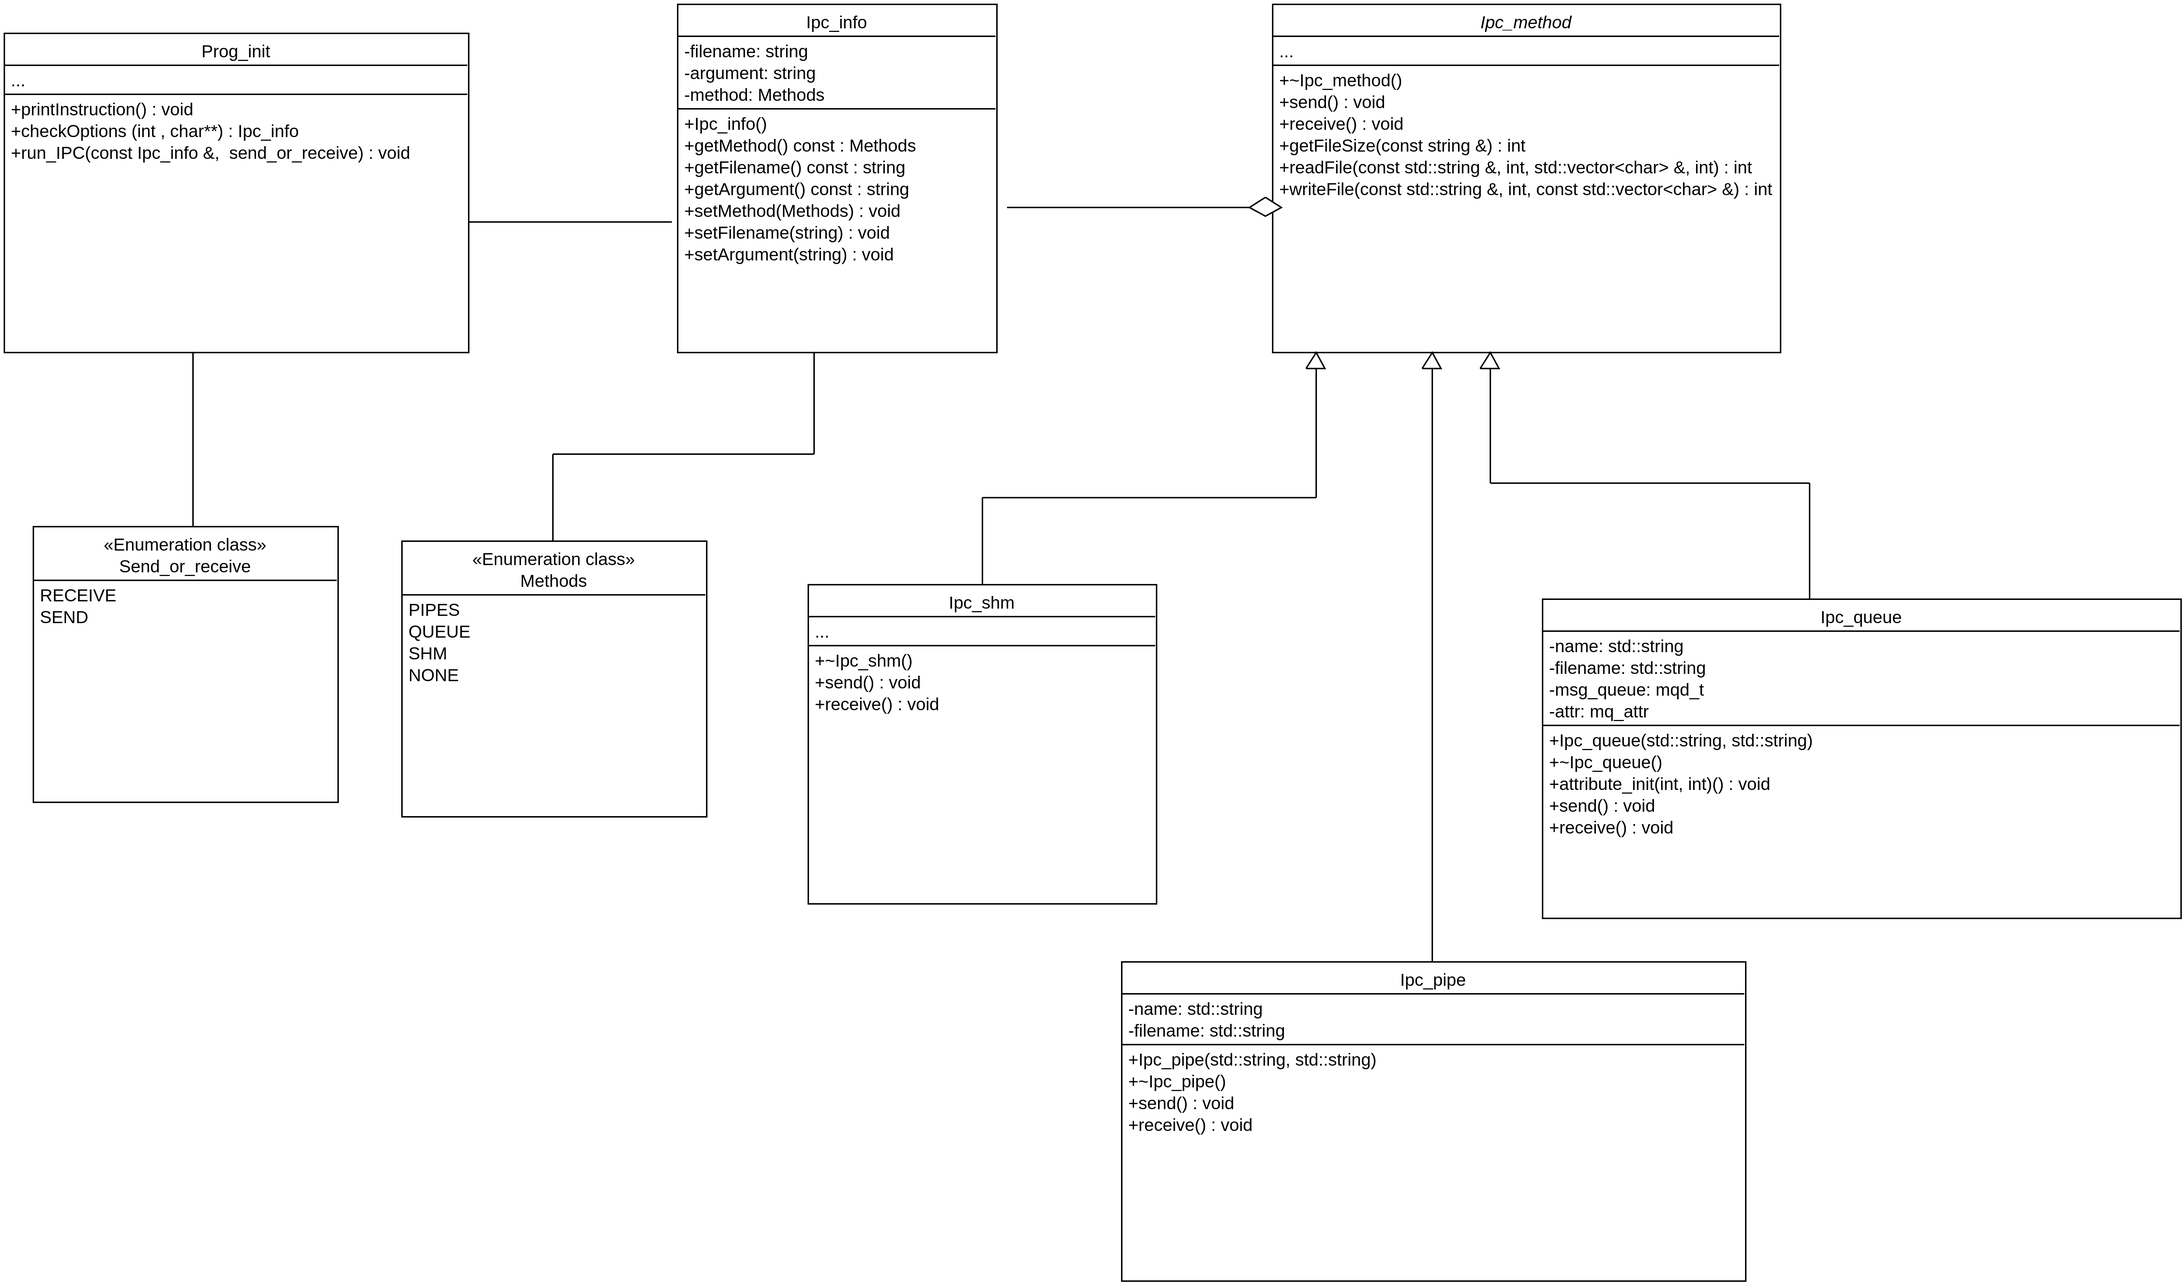
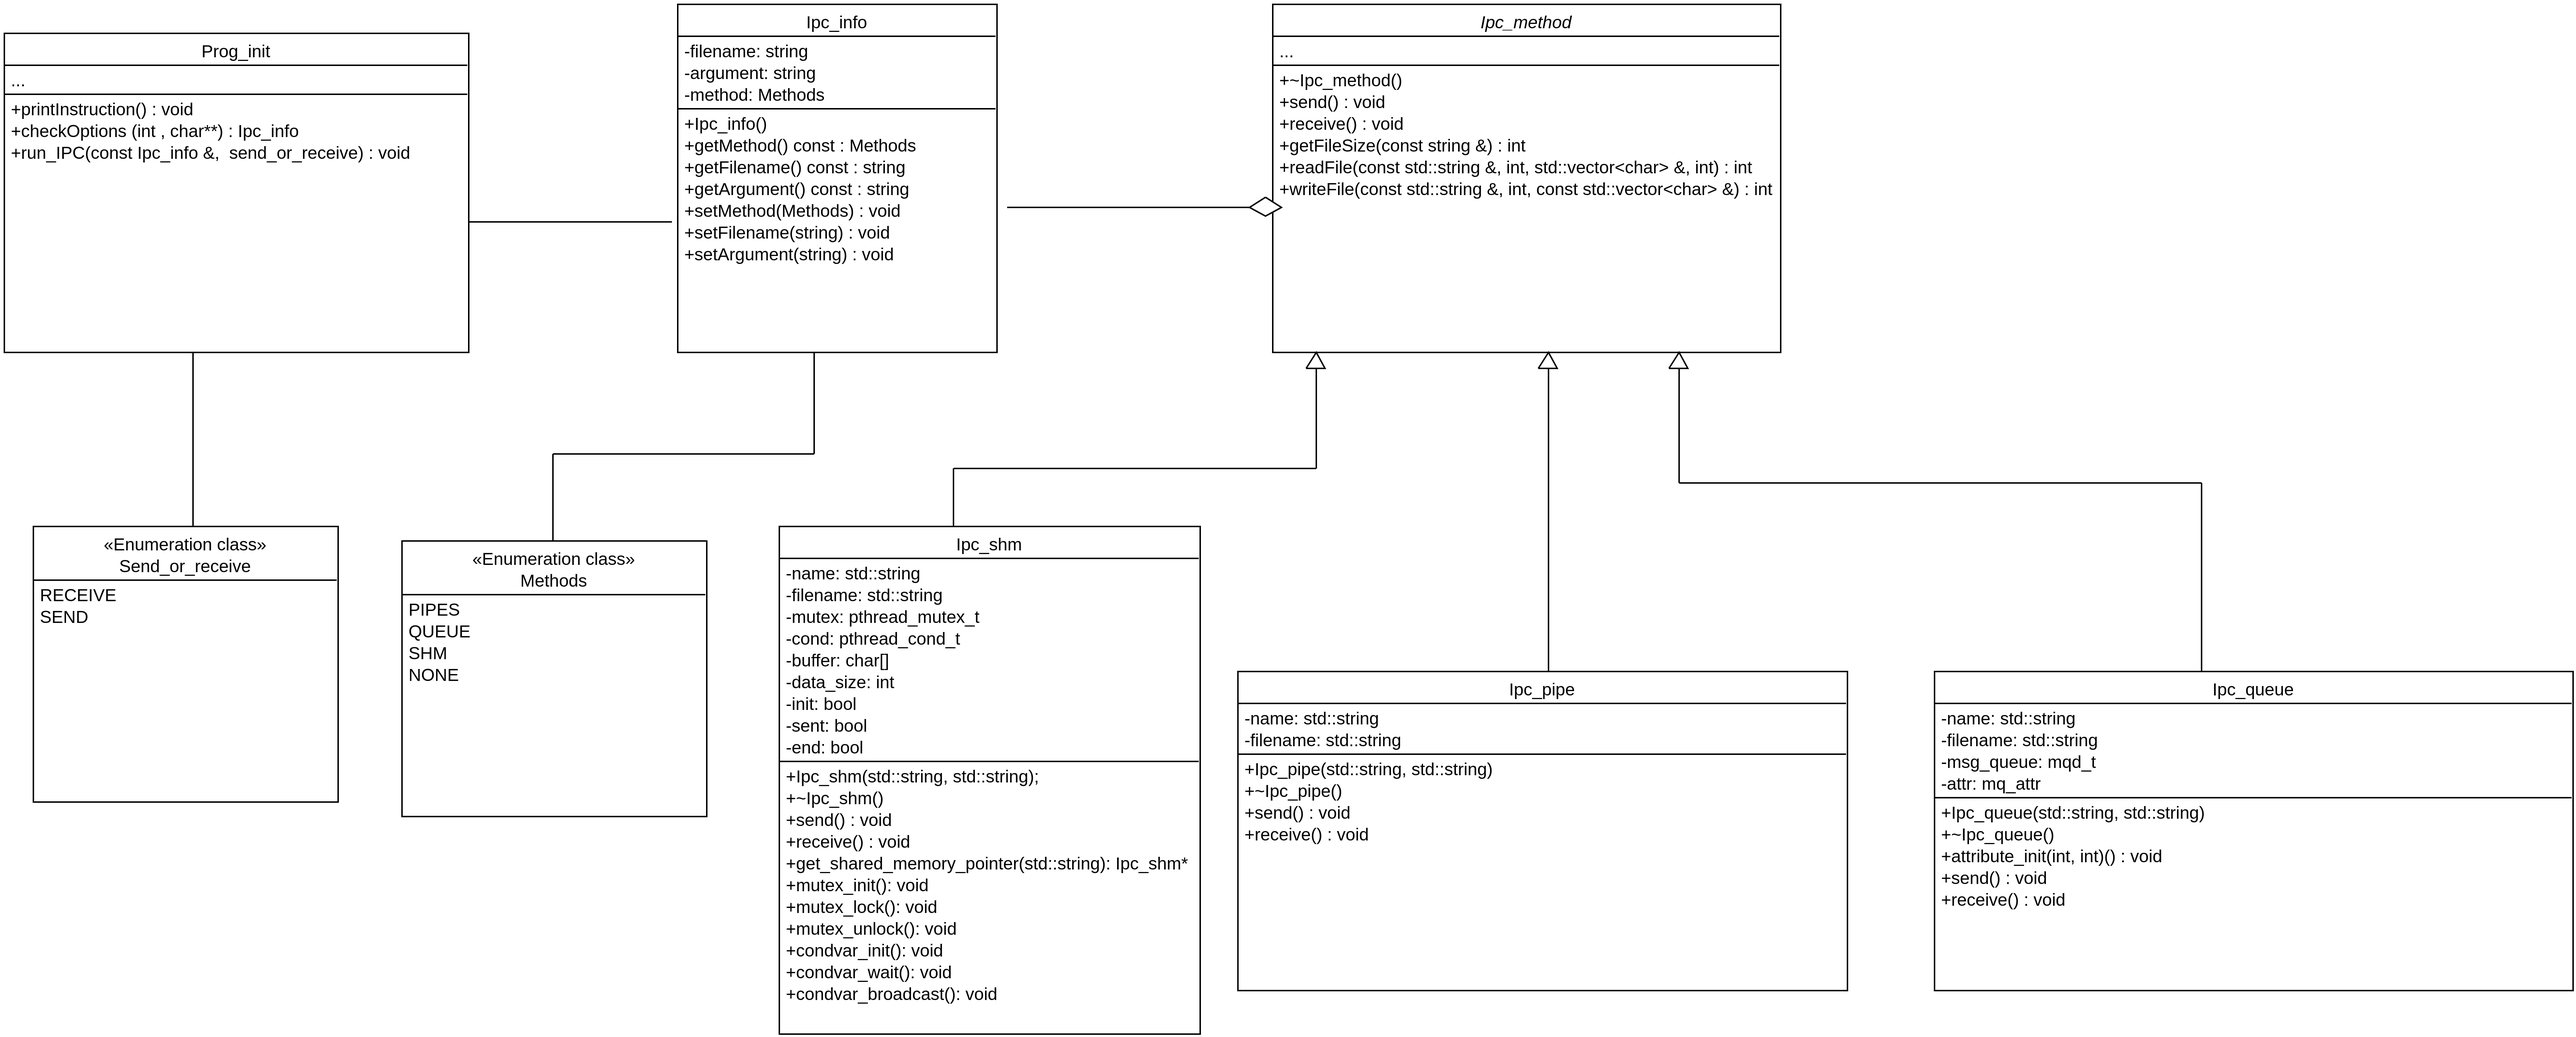
Added shm implementation

diff --git a/Cpp_hands_on_programming/lib/shm/Ipc_shm.cc b/Cpp_hands_on_programming/lib/shm/Ipc_shm.cc
@@ -7,191 +7,187 @@
 
 void Ipc_shm::send() {
     std::cout << "Starting shmSend.." << std::endl;
-    // check_leadingSlash();
 
-    // int fd, total(0), size, bytes_read(0);
-	// std::vector<char> v(DATA_SIZE);
+    int fd, total(0), size, bytes_read(0);
+	std::vector<char> v(DATA_SIZE);
     
- 	// if ((size = getFileSize(filename)) == -1) {
-	// 	throw(std::runtime_error("Ipc_method:: getFileSize"));
-	// }
+ 	if ((size = getFileSize(filename)) == -1) {
+		throw(std::runtime_error("Ipc_method:: getFileSize"));
+	}
 
-    // fd = shm_open(name.c_str(), O_RDWR | O_CREAT, 0666);
-	// if (fd == -1) { 
-	// 	throw(std::runtime_error("Ipc_shm::send: shm_open"));
-	// }
-	// // allocate the size of the shared memory object
-	// if (ftruncate(fd, sizeof(Ipc_shm)) == -1) {
-	// 	throw(std::runtime_error("Ipc_shm::send: ftruncate"));	
-	// }
-	// // get a pointer to shared memory region
-	// auto shm_ptr = (Ipc_shm *)mmap(NULL, sizeof(Ipc_shm), PROT_WRITE, MAP_SHARED, fd, 0);
-	// if (shm_ptr == MAP_FAILED) {
-	// 	throw(std::runtime_error("Ipc_shm::send: mmap"));
-	// }
-    // //close fd
-	// close(fd);
-	
-	// if ((bytes_read = readFile(filename, total, v, DATA_SIZE) == -1)) {
-	// 	throw(std::runtime_error("Ipc_shm::send: readFile"));
-	// }
+    fd = shm_open(name.c_str(), O_RDWR | O_CREAT, 0666);
+	if (fd == -1) { 
+		throw(std::runtime_error("Ipc_shm::send: shm_open"));
+	}
+	// allocate the size of the shared memory object
+	if (ftruncate(fd, sizeof(Ipc_shm)) == -1) {
+		throw(std::runtime_error("Ipc_shm::send: ftruncate"));	
+	}
+	// get a pointer to shared memory region
+	auto shm_ptr = (Ipc_shm *)mmap(NULL, sizeof(Ipc_shm), PROT_WRITE, MAP_SHARED, fd, 0);
+	if (shm_ptr == MAP_FAILED) {
+		throw(std::runtime_error("Ipc_shm::send: mmap"));
+	}
+    //close fd
+	close(fd);
 
-	// shm_ptr->mutex_init();
-	// shm_ptr->condvar_init();
-	// // initialized shared memory object member values
-	// shm_ptr->sent = false;
-	// shm_ptr->end = false;
-	// shm_ptr->init = true;
+	shm_ptr->mutex_init();
+	shm_ptr->condvar_init();
+	// initialized shared memory object member values
+	shm_ptr->sent = false;
+	shm_ptr->end = false;
+	shm_ptr->init = true;
 
-    // while (total < size) {
-    //     // shm_ptr->m.lock();
-	// 	shm_ptr->mutex_lock();
-	// 	// check sent status and blocked if data still has not been retrieved 
-	// 	while (shm_ptr->sent) {
-	// 		shm_ptr->condvar_wait();
-	// 	}
-	// 	//read the file into shared buffer;
-	// 	if ((bytes_read = readFile(filename, total, v, DATA_SIZE)) == -1) {
-	// 		throw(std::runtime_error("Ipc_shm::send: readFile"));
-	// 	}
-	// 	copy(v.begin(), v.end(), shm_ptr->buffer);
-	// 	total += bytes_read;
-	// 	if (total == size) {
-	// 		shm_ptr->end = true;
-	// 	}
-	// 	// update shared memory object
-	// 	shm_ptr->sent = true;
-	// 	shm_ptr->data_size = bytes_read; 
+    while (total < size) {
+        // shm_ptr->m.lock();
+		shm_ptr->mutex_lock();
+		// check sent status and blocked if data still has not been retrieved 
+		while (shm_ptr->sent) {
+			shm_ptr->condvar_wait();
+		}
+		//read the file into shared buffer;
+		if ((bytes_read = readFile(filename, total, v, DATA_SIZE)) == -1) {
+			throw(std::runtime_error("Ipc_shm::send: readFile"));
+		}
+		copy(v.begin(), v.end(), shm_ptr->buffer);
+		total += bytes_read;
+		if (total == size) {
+			shm_ptr->end = true;
+		}
+		// update shared memory object
+		shm_ptr->sent = true;
+		shm_ptr->data_size = bytes_read; 
 
-	// 	shm_ptr->mutex_unlock();
-	// 	//wake up process which is currently condvar blocked
-	// 	shm_ptr->condvar_broadcast();
-	// }
+		shm_ptr->mutex_unlock();
+		//wake up process which is currently condvar blocked
+		shm_ptr->condvar_broadcast();
+	}
 
-	// if (total == size) {
-	// 	std::cout << "File delivered by shm successfully, exiting the program.."  << std::endl;
-	// } else {
-	// 	throw(std::runtime_error("Ipc_shm::send: total and size difference"));
-	// }
+	if (total == size) {
+		std::cout << "File delivered by shm successfully, exiting the program.."  << std::endl;
+	} else {
+		throw(std::runtime_error("Ipc_shm::send: total and size difference"));
+	}
 }
 
 void Ipc_shm::receive() {
     std::cout << "Starting shmReceive.." << std::endl;
-    // check_leadingSlash();
 
-    // auto shm_ptr = get_shared_memory_pointer(name);
-	// std::cout << "Found shm!"<< std::endl;
-    // int total(0), size(0);
-    // bool done(false);
-	// std::vector<char> v(DATA_SIZE);
-	// while (!done) {
-	// 	// enter critical section, lock the mutex
-	// 	shm_ptr->mutex_lock();
+    auto shm_ptr = get_shared_memory_pointer(name);
+	std::cout << "Found shm!"<< std::endl;
+    int total(0), size(0);
+    bool done(false);
+	std::vector<char> v(DATA_SIZE);
+	while (!done) {
+		// enter critical section, lock the mutex
+		shm_ptr->mutex_lock();
 
-	// 	// check sent status and blocked if shmSend still has not sent new data at this point
-	// 	while (!shm_ptr->sent) {
-	// 		shm_ptr->condvar_wait();
-	// 	}
-	// 	// check end status
-	// 	if (shm_ptr->end) {
-	// 		done = shm_ptr->end;
-	// 	}
-	// 	// write into file
-	// 	copy(shm_ptr->buffer, shm_ptr->buffer + shm_ptr->data_size, v.begin());
-	// 	v.resize(shm_ptr->data_size);
-	// 	if (writeFile(filename, total, v) == -1) {
-	// 		throw("Ipc_shm::receive: writeFile");
-	// 	}
-    //     total += shm_ptr->data_size;
-	// 	// reset sent status
-	// 	shm_ptr->sent = false;
+		// check sent status and blocked if shmSend still has not sent new data at this point
+		while (!shm_ptr->sent) {
+			shm_ptr->condvar_wait();
+		}
+		// check end status
+		if (shm_ptr->end) {
+			done = shm_ptr->end;
+		}
+		// write into file
+		copy(shm_ptr->buffer, shm_ptr->buffer + shm_ptr->data_size, v.begin());
+		v.resize(shm_ptr->data_size);
+		if (writeFile(filename, total, v) == -1) {
+			throw("Ipc_shm::receive: writeFile");
+		}
+        total += shm_ptr->data_size;
+		// reset sent status
+		shm_ptr->sent = false;
 
-	// 	shm_ptr->mutex_unlock();
-	// 	//wake up process which is currently condvar blocked
-	// 	shm_ptr->condvar_broadcast();
-	// }
-	// // get size of newly written file name
-	// if ((size = getFileSize(filename)) == -1) {
-	// 	throw(std::runtime_error("Ipc_method:: getFileSize"));
-	// }
-	// if (total == size) {
-	// 	std::cout << "Write to file from shm successfully, exiting the program.." << std::endl;
-	// } else {
-	// 	throw(std::runtime_error("Ipc_shm::receive: file size and total difference"));
-	// }
-}
-
-void Ipc_shm::check_leadingSlash() {
-    // if (name[0] != '/' || name.find('/', 1) != std::string::npos) {
-    //     throw(std::runtime_error("Ipc_shm::check_leadingSlash: shm name must starts with leading slash '/' and contains only one slash"));
-    // }
+		shm_ptr->mutex_unlock();
+		//wake up process which is currently condvar blocked
+		shm_ptr->condvar_broadcast();
+	}
+	// get size of newly written file name
+	if ((size = getFileSize(filename)) == -1) {
+		throw(std::runtime_error("Ipc_method:: getFileSize"));
+	}
+	if (total == size) {
+		std::cout << "Write to file from shm successfully, exiting the program.." << std::endl;
+	} else {
+		throw(std::runtime_error("Ipc_shm::receive: file size and total difference"));
+	}
 }
 
 Ipc_shm::~Ipc_shm() {
-    // shm_unlink(name.c_str());
+    shm_unlink(name.c_str());
+}
+
+Ipc_shm::Ipc_shm(std::string name0, std::string file0) {
+    if (name0[0] != '/' || name0.find('/', 1) != std::string::npos || name0.length() <= 1) {
+        throw(std::runtime_error("Ipc_shm::Constructor: shm name must starts with leading slash '/' and followed by non-slash characters"));
+    }
+    name = name0;
+    filename = file0;
 }
 
 Ipc_shm * Ipc_shm::get_shared_memory_pointer(std::string name) {
 	Ipc_shm * ptr = NULL;
-	// int fd;
+	int fd;
 
-	// std::cout << "Getting access to shared memory region..(Program would stuck in a loop for non-exist shm name" << std::endl;
+	std::cout << "Getting access to shared memory region..(Program would stuck in a loop for non-exist shm name" << std::endl;
 
-	// while ((fd = shm_open(name.c_str(), O_RDWR, 0)) == -1) {
-	// 	/* wait one second then try again */
-	// 	std::this_thread::sleep_for (std::chrono::seconds(1));
-	// }
+	while ((fd = shm_open(name.c_str(), O_RDWR, 0)) == -1) {
+		/* wait one second then try again */
+		std::this_thread::sleep_for (std::chrono::seconds(1));
+	}
 
-	// while ((ptr = (Ipc_shm *)mmap(0, sizeof(Ipc_shm), PROT_READ | PROT_WRITE, MAP_SHARED, fd, 0)) == MAP_FAILED) {
-	// 	std::this_thread::sleep_for (std::chrono::seconds(1));
-	// }
-	// /* no longer need fd */
-	// close(fd);
+	while ((ptr = (Ipc_shm *)mmap(0, sizeof(Ipc_shm), PROT_READ | PROT_WRITE, MAP_SHARED, fd, 0)) == MAP_FAILED) {
+		std::this_thread::sleep_for (std::chrono::seconds(1));
+	}
+	/* no longer need fd */
+	close(fd);
 
-	// while (!ptr->init) {
-	// 	std::this_thread::sleep_for (std::chrono::seconds(1));
-	// }
+	while (!ptr->init) {
+		std::this_thread::sleep_for (std::chrono::seconds(1));
+	}
 	return ptr;
 }
 
 void Ipc_shm::mutex_init() {
-	// pthread_mutexattr_t attr;
-	// pthread_mutexattr_init(&attr);
-	// pthread_mutexattr_setpshared(&attr, PTHREAD_PROCESS_SHARED);
-	// if (pthread_mutex_init(&mutex, &attr) != 0) {
-	// 	throw(std::runtime_error("pthread_mutex_init"));
-	// }
+	pthread_mutexattr_t attr;
+	pthread_mutexattr_init(&attr);
+	pthread_mutexattr_setpshared(&attr, PTHREAD_PROCESS_SHARED);
+	if (pthread_mutex_init(&mutex, &attr) != 0) {
+		throw(std::runtime_error("pthread_mutex_init"));
+	}
 }
 
 void Ipc_shm::mutex_lock() {
-	// if (pthread_mutex_lock(&mutex) != 0) {
-	// 	throw(std::runtime_error("pthread_mutex_lock"));
-	// }
+	if (pthread_mutex_lock(&mutex) != 0) {
+		throw(std::runtime_error("pthread_mutex_lock"));
+	}
 }
 
 void Ipc_shm::mutex_unlock() {
-	// if (pthread_mutex_unlock(&mutex) != 0) {
-	// 	throw(std::runtime_error("pthread_mutex_unlock"));
-	// }
+	if (pthread_mutex_unlock(&mutex) != 0) {
+		throw(std::runtime_error("pthread_mutex_unlock"));
+	}
 }
 
 void Ipc_shm::condvar_init() {
-	// pthread_condattr_t attr;
-	// pthread_condattr_init(&attr);
-	// pthread_condattr_setpshared(&attr, PTHREAD_PROCESS_SHARED);
-	// if (pthread_cond_init(&cond, &attr) != 0) {
-	// 	throw(std::runtime_error("pthread_cond_init"));
-	// }
+	pthread_condattr_t attr;
+	pthread_condattr_init(&attr);
+	pthread_condattr_setpshared(&attr, PTHREAD_PROCESS_SHARED);
+	if (pthread_cond_init(&cond, &attr) != 0) {
+		throw(std::runtime_error("pthread_cond_init"));
+	}
 }
 
 void Ipc_shm::condvar_wait() {
-	// if (pthread_cond_wait(&cond, &mutex) != 0) {
-	// 	throw(std::runtime_error("pthread_cond_wait"));	
-	// }
+	if (pthread_cond_wait(&cond, &mutex) != 0) {
+		throw(std::runtime_error("pthread_cond_wait"));	
+	}
 }
 
 void Ipc_shm::condvar_broadcast() {
-	// if (pthread_cond_broadcast(&cond) != 0) {
-	// 	throw(std::runtime_error("pthread_cond_broadcast"));	
-	// }
+	if (pthread_cond_broadcast(&cond) != 0) {
+		throw(std::runtime_error("pthread_cond_broadcast"));	
+	}
 }

diff --git a/Cpp_hands_on_programming/test/test.cc b/Cpp_hands_on_programming/test/test.cc
@@ -93,10 +93,11 @@ TEST_P(Prog_initParamTest, CheckOptionsInfoValues) {
 
 std::map<std::string, std::shared_ptr<Ipc_method>> input_ipc_pointer = {
     {"pipe", std::make_shared<Ipc_pipe>("gpipe", "test2")},
-    {"queue", std::make_shared<Ipc_queue>("/gqueue", "test2")},
     {"pipeBigfile", std::make_shared<Ipc_pipe>("gpipe2", "bigfile")},
-    {"queueBigfile", std::make_shared<Ipc_queue>("/gqueue2", "bigfile")}
-    //{"shm", std::make_shared<Ipc_shm>("/gshm", "test2")}
+    {"queue", std::make_shared<Ipc_queue>("/gqueue", "test2")},
+    {"queueBigfile", std::make_shared<Ipc_queue>("/gqueue2", "bigfile")},
+    {"shm", std::make_shared<Ipc_shm>("/gshm", "test2")},
+    {"shmBigfile", std::make_shared<Ipc_shm>("/gshm2", "bigfile")}
 };
 
 class PolymorphismInput : public::testing::TestWithParam<std::pair<const std::string, std::shared_ptr<Ipc_method>>> {
@@ -106,6 +107,10 @@ protected:
         out.seekp(bigSize - 3);
         out << "end";
         out.close();
+    }
+
+    static void TearDownTestSuite() {
+        unlink("bigfile");
     }
 };
 

diff --git a/Cpp_hands_on_programming/testReceive/testReceive.cc b/Cpp_hands_on_programming/testReceive/testReceive.cc
@@ -10,10 +10,11 @@
 
 std::map<std::string, std::shared_ptr<Ipc_method>> input_ipc_pointer = {
     {"pipe", std::make_shared<Ipc_pipe>("gpipe", "pipeGtest")},
-    {"queue", std::make_shared<Ipc_queue>("/gqueue", "queueGtest")},
     {"pipeBigfile", std::make_shared<Ipc_pipe>("gpipe2", "pipeBigfileGtest")},
-    {"queueBigfile", std::make_shared<Ipc_queue>("/gqueue2", "queueBigfileGtest")}
-    //{"shm", std::make_shared<Ipc_shm>("/gshm", "shmGtest")}
+    {"queue", std::make_shared<Ipc_queue>("/gqueue", "queueGtest")},
+    {"queueBigfile", std::make_shared<Ipc_queue>("/gqueue2", "queueBigfileGtest")},
+    {"shm", std::make_shared<Ipc_shm>("/gshm", "shmGtest")},
+    {"shmBigfile", std::make_shared<Ipc_shm>("/gshm2", "shmBigfileGtest")}
 };
 
 class PolymorphismInput : public::testing::TestWithParam<std::pair<const std::string, std::shared_ptr<Ipc_method>>> {};

diff --git a/Cpp_hands_on_programming/lib/queue/Ipc_queue.cc b/Cpp_hands_on_programming/lib/queue/Ipc_queue.cc
@@ -92,7 +92,7 @@ void Ipc_queue::receive()
 
 Ipc_queue::Ipc_queue(std::string name0, std::string file0) {
     if (name0[0] != '/' || name0.find('/', 1) != std::string::npos || name0.length() <= 1) {
-        throw(std::runtime_error("Ipc_queue::Constructor: queue name must starts with leading slash '/' and contains only one slash"));
+        throw(std::runtime_error("Ipc_queue::Constructor: queue name must starts with leading slash '/' and followed by non-slash characters"));
     }
     name = name0;
     filename = file0;

diff --git a/Cpp_hands_on_programming/lib/shm/Ipc_shm.h b/Cpp_hands_on_programming/lib/shm/Ipc_shm.h
@@ -16,7 +16,7 @@ private:
     bool sent;
     bool end;
 public:
-    Ipc_shm(std::string name0, std::string file0) : name(name0), filename(file0) {}
+    Ipc_shm(std::string name0, std::string file0);
     virtual ~Ipc_shm();
     void send() override;
     void receive() override;
